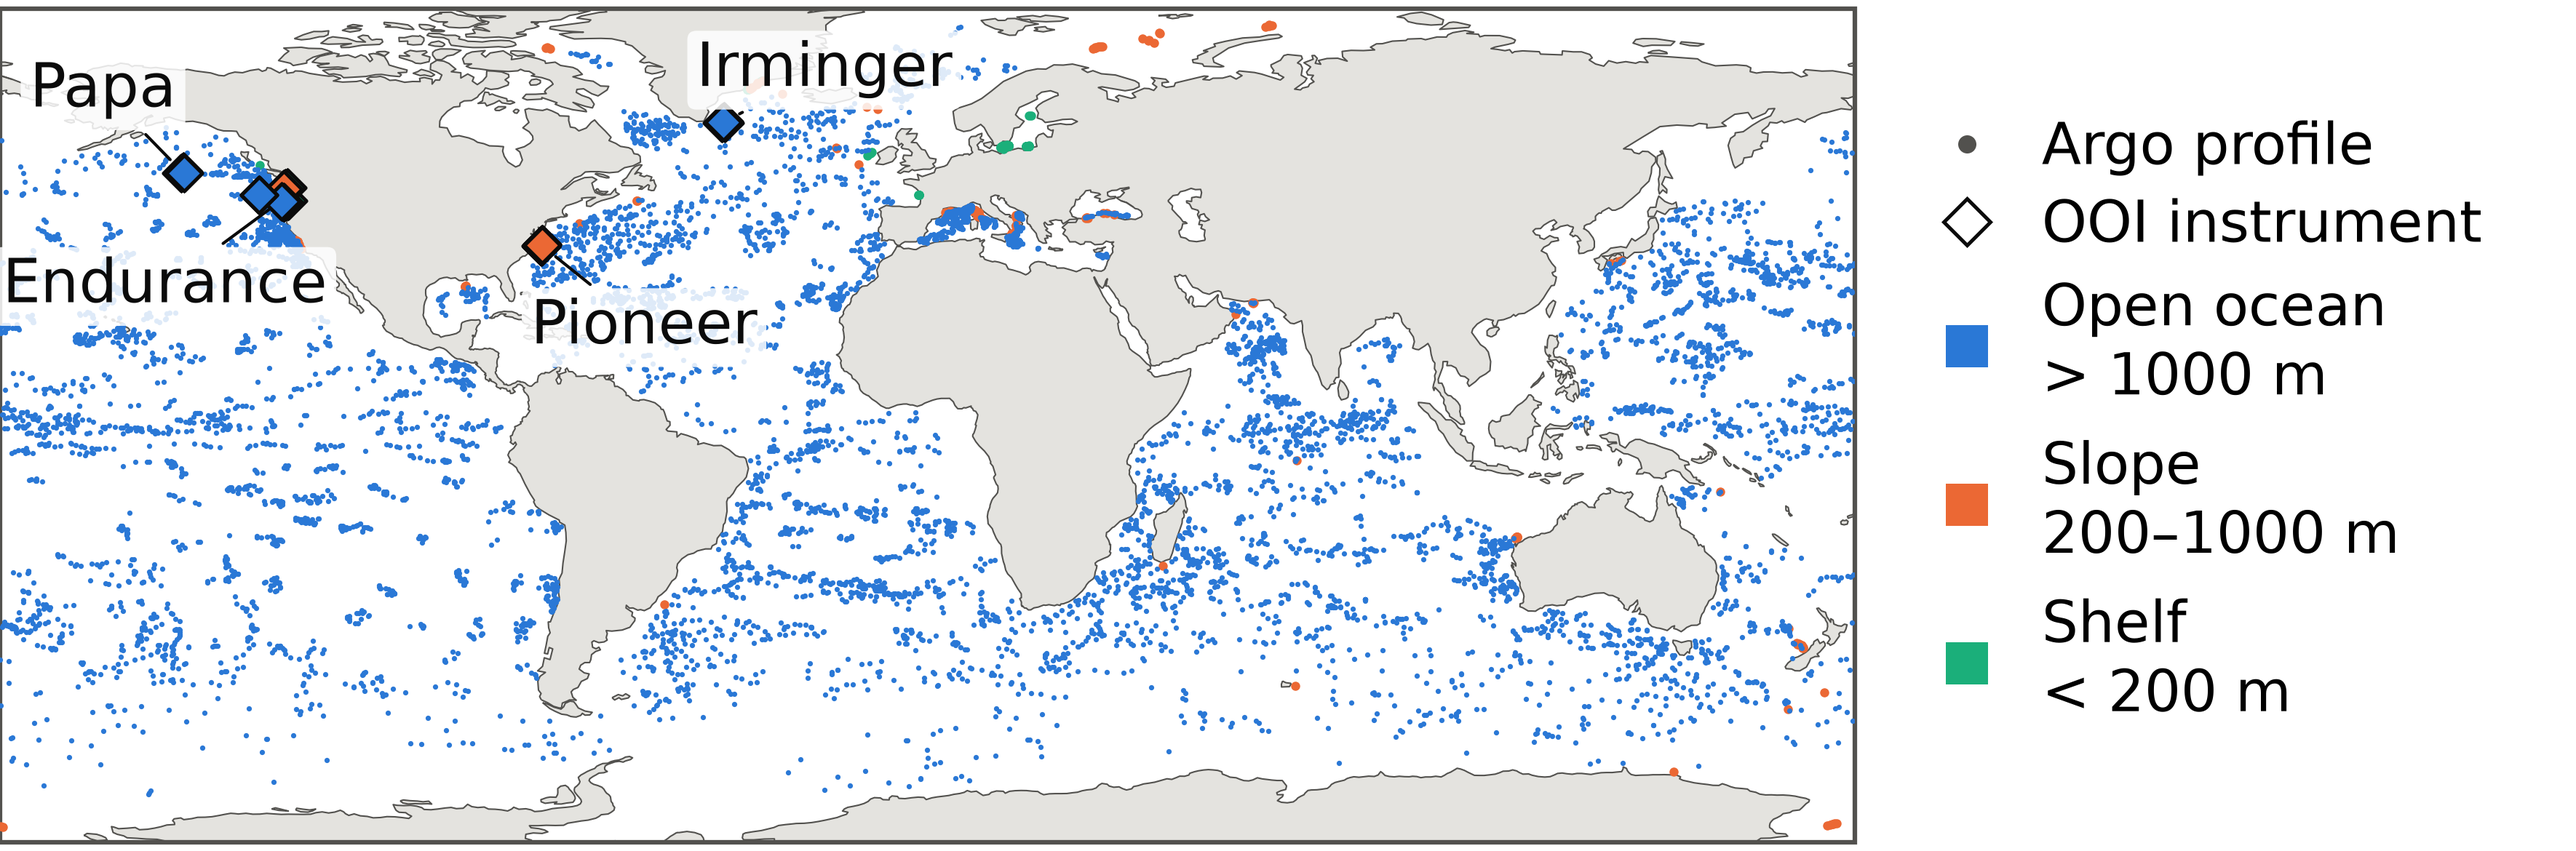
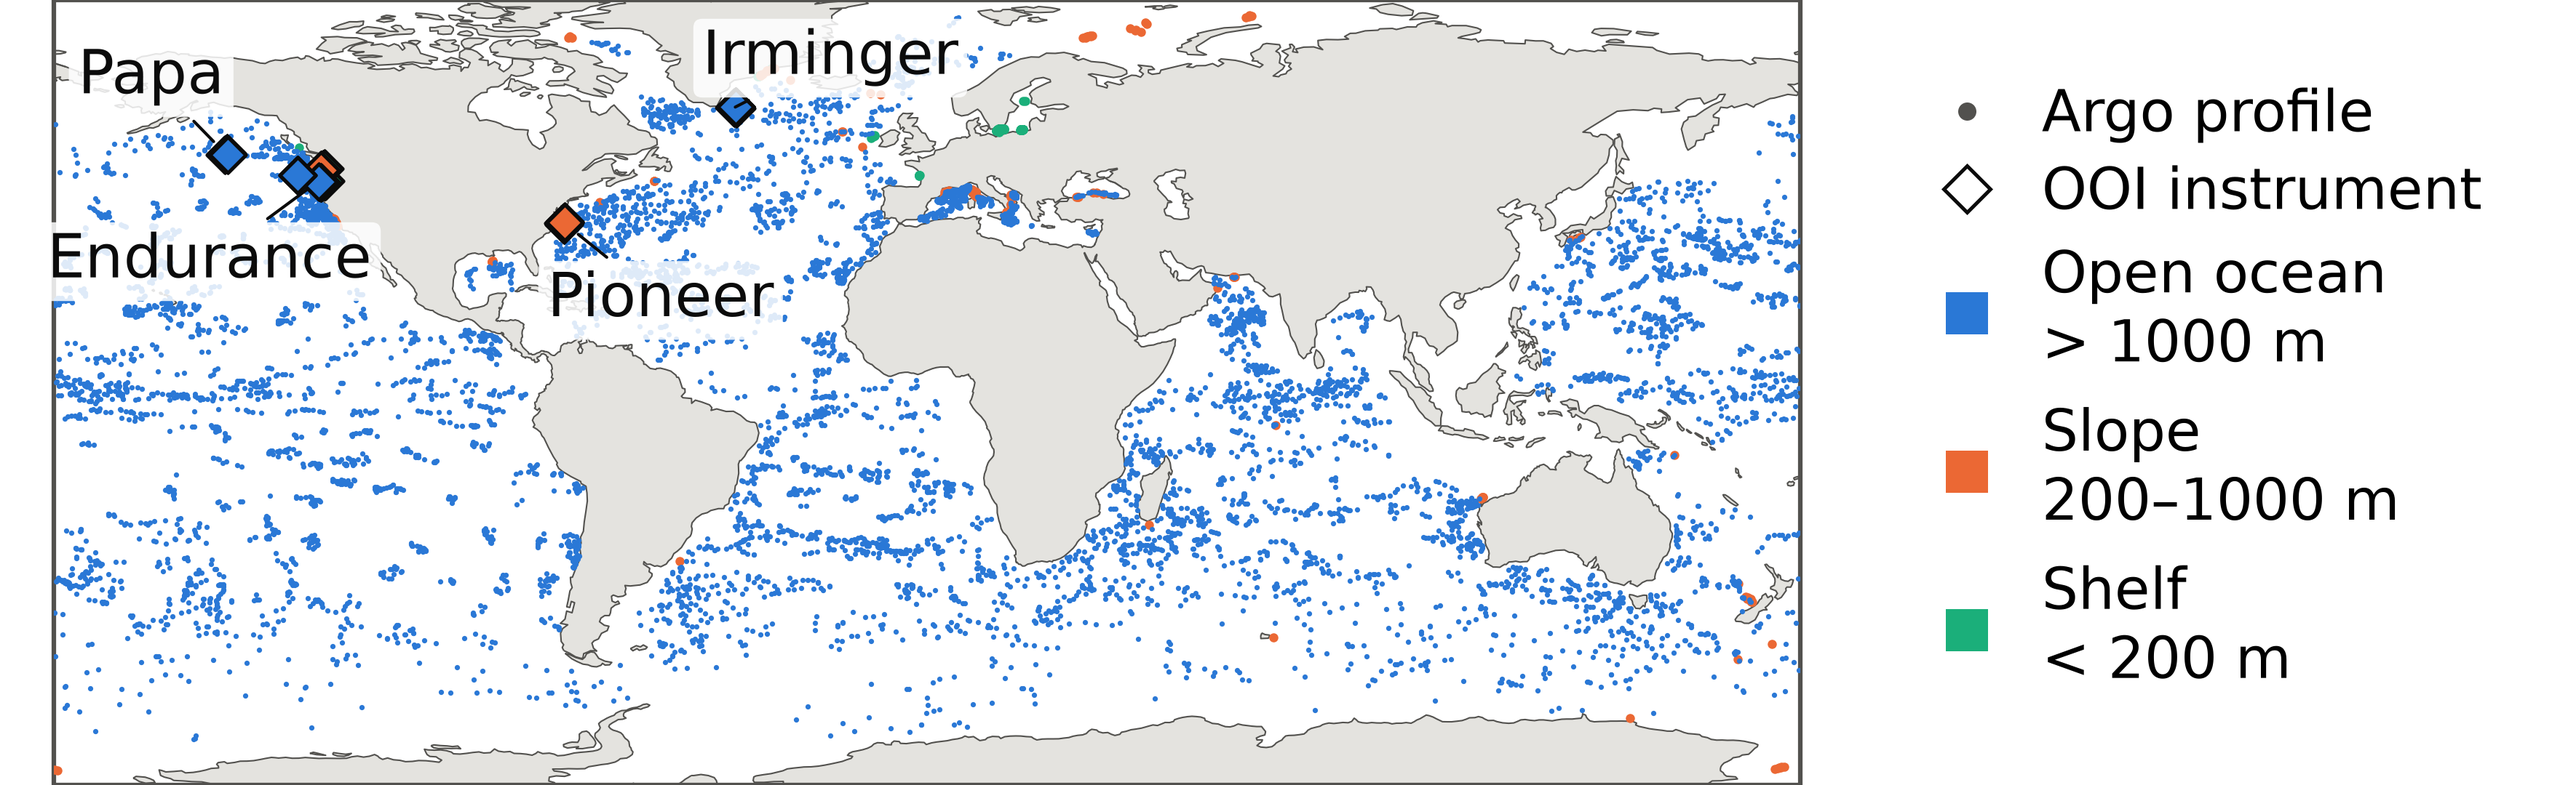
Introduction: Relation paragraph on how CHLA-Z differs from SOCA2024; define PACE and OLCI; spacing and map height to keep one page (with Eli's edits)

diff --git a/poster/scripts/fig_data_map.py b/poster/scripts/fig_data_map.py
@@ -26,7 +26,7 @@ DATA_RELEASE = "2026_11_23"
 BATHY = Path.home() / "shared-public" / "chla-z" / "bathymetry"
 TABLE = BATHY / f"water_depth_{DATA_RELEASE}.parquet"
 OUT = Path(__file__).resolve().parents[1] / "figures" / "fig_data_map.png"
-HEIGHT_IN = 3.9
+HEIGHT_IN = 3.6
 
 # Categorical slots 1-3 of the dataviz reference palette, in fixed order; the
 # first three are the ones that validate for all pairs (scatter/map use).
